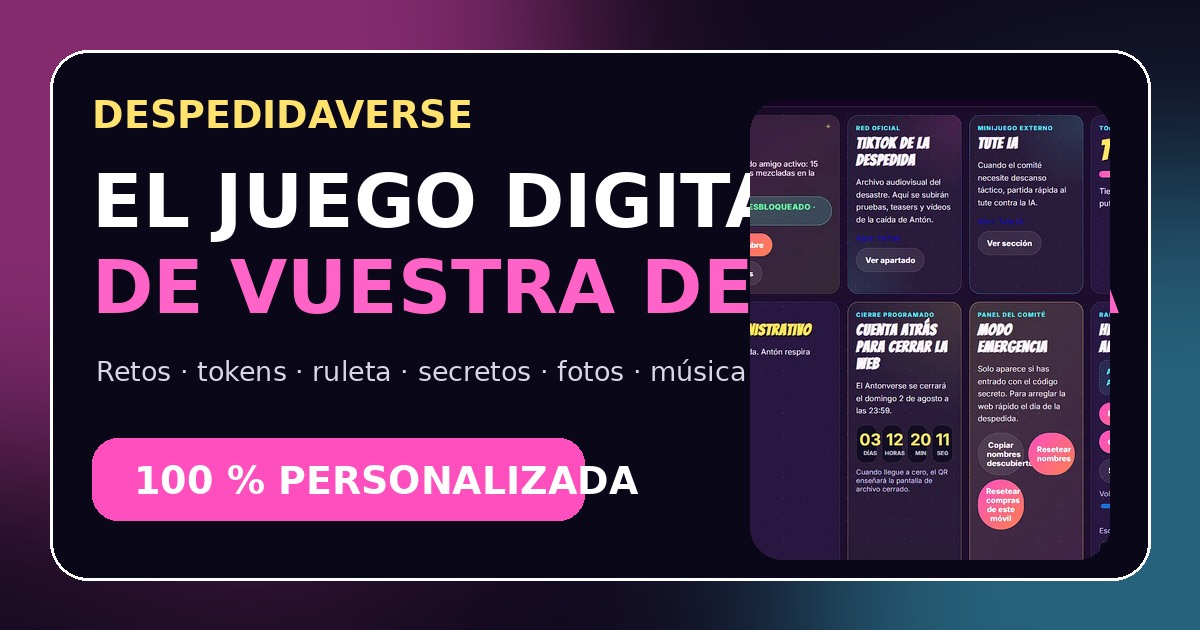
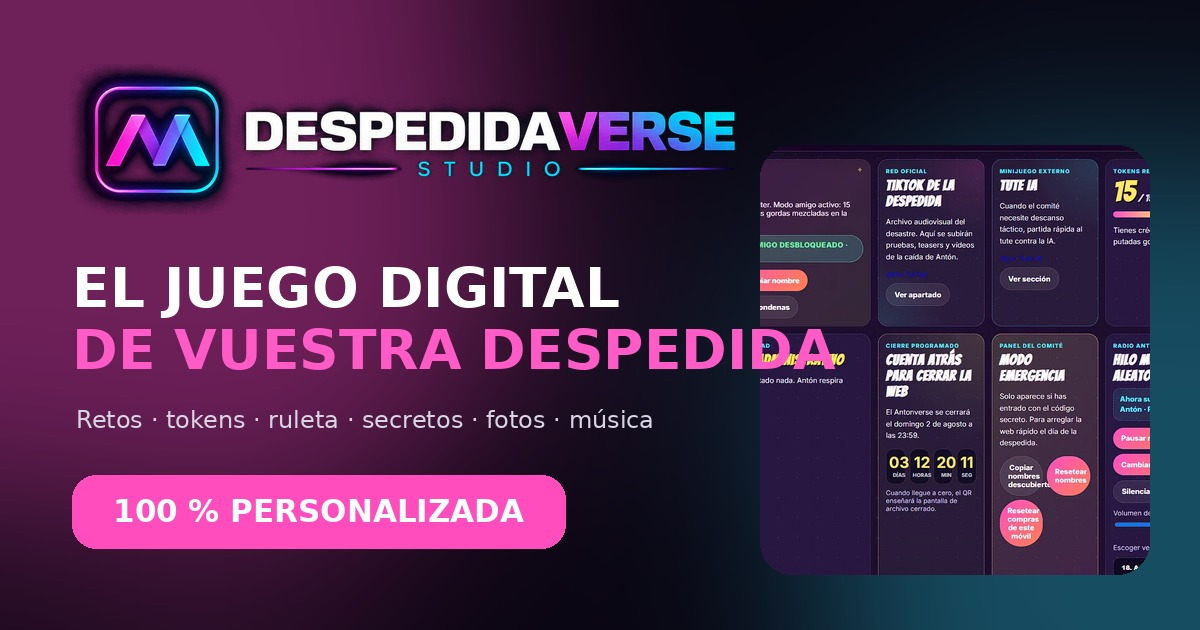
Add files via upload

diff --git a/styles.css b/styles.css
@@ -18,7 +18,7 @@ img{display:block;max-width:100%}
 .ambient{position:fixed;border-radius:50%;filter:blur(120px);pointer-events:none;z-index:-2;opacity:.16}.ambient-a{width:480px;height:480px;background:var(--pink);left:-250px;top:120px}.ambient-b{width:560px;height:560px;background:var(--cyan);right:-360px;top:1000px}
 .topbar{min-height:38px;display:flex;align-items:center;justify-content:center;gap:24px;padding:7px 20px;background:linear-gradient(90deg,#5d1c72,#9a245f,#2d5878);font-size:.78rem;font-weight:850;letter-spacing:.04em}.topbar a{color:var(--yellow)}
 .site-header{position:sticky;top:0;z-index:100;min-height:78px;display:flex;align-items:center;justify-content:space-between;padding:10px max(22px,calc((100vw - 1180px)/2));background:rgba(13,8,24,.72);border-bottom:1px solid transparent;backdrop-filter:blur(18px);transition:.25s}.site-header.scrolled{border-bottom-color:var(--line);background:rgba(13,8,24,.92)}
-.brand img{width:242px;height:auto}.main-nav{display:flex;align-items:center;gap:25px;font-size:.9rem;font-weight:780}.main-nav>a{color:#d8d3e3;transition:.2s}.main-nav>a:hover{color:#fff}.nav-cta{padding:11px 18px;border:1px solid rgba(255,255,255,.2);border-radius:999px;background:rgba(255,255,255,.06)}
+.brand img{width:300px;height:auto;object-fit:contain}.main-nav{display:flex;align-items:center;gap:25px;font-size:.9rem;font-weight:780}.main-nav>a{color:#d8d3e3;transition:.2s}.main-nav>a:hover{color:#fff}.nav-cta{padding:11px 18px;border:1px solid rgba(255,255,255,.2);border-radius:999px;background:rgba(255,255,255,.06)}
 .menu-toggle{display:none;width:46px;height:46px;border:1px solid var(--line);background:rgba(255,255,255,.06);border-radius:14px;padding:12px}.menu-toggle span{display:block;height:2px;background:#fff;margin:5px 0;border-radius:2px}
 .eyebrow{display:flex;align-items:center;gap:10px;margin:0 0 18px;color:var(--cyan);font-size:.78rem;font-weight:950;letter-spacing:.15em;text-transform:uppercase}.eyebrow span{width:33px;height:2px;background:linear-gradient(90deg,var(--pink),var(--cyan))}
 h1,h2,h3,p{overflow-wrap:break-word}h1,h2,h3{margin:0;line-height:.98;letter-spacing:-.045em}h1{font-size:clamp(3.15rem,6.7vw,6.1rem)}h2{font-size:clamp(2.5rem,5vw,4.5rem)}h3{font-size:1.55rem}em{font-style:normal;color:transparent;background:linear-gradient(90deg,var(--pink),var(--purple),var(--cyan));background-clip:text;-webkit-background-clip:text}
@@ -48,7 +48,7 @@ h1,h2,h3,p{overflow-wrap:break-word}h1,h2,h3{margin:0;line-height:.98;letter-spa
 .contact-section{padding-block:130px;background:radial-gradient(circle at 15% 30%,rgba(255,88,196,.13),transparent 34%),#0c0715}.contact-wrap{display:grid;grid-template-columns:.78fr 1.22fr;gap:65px}.contact-copy>p:not(.eyebrow){color:var(--muted)}.contact-points{display:grid;gap:10px;margin:30px 0}.contact-points span{display:flex;align-items:center;gap:11px;color:#ddd8e4}.contact-points b{display:grid;place-items:center;width:29px;height:29px;border-radius:50%;background:rgba(93,231,255,.12);color:var(--cyan)}.direct-contact{padding:18px;border:1px solid var(--line);border-radius:18px;background:rgba(255,255,255,.035)}.direct-contact small,.direct-contact a{display:block}.direct-contact small{color:var(--yellow);font-size:.62rem;font-weight:950}.direct-contact a{margin:6px 0;font-weight:900;overflow-wrap:anywhere}.direct-contact button,.form-tools button{padding:0;border:0;background:transparent;color:var(--cyan);font-weight:900;cursor:pointer}
 .lead-form{padding:28px;border:1px solid var(--line);border-radius:28px;background:rgba(255,255,255,.045);box-shadow:var(--shadow)}.form-head{display:flex;justify-content:space-between;margin-bottom:23px;padding-bottom:16px;border-bottom:1px solid var(--line)}.form-head span{color:var(--pink);font-size:.7rem;font-weight:950}.form-grid{display:grid;grid-template-columns:1fr 1fr;gap:13px}.form-grid label>span{display:block;margin-bottom:7px;color:#b9b2c2;font-size:.76rem}.form-grid .full{grid-column:1/-1}.lead-form textarea{resize:vertical}.consent{display:flex;gap:10px;margin:18px 0;color:#aaa3b4;font-size:.72rem}.consent input{width:auto;margin-top:3px}.form-submit{width:100%}.form-tools{display:flex;align-items:center;justify-content:space-between;margin-top:13px;color:#aaa3b4;font-size:.74rem}
 .final-cta{padding:95px 0;background:linear-gradient(135deg,#ff51bd,#915eff 55%,#36d9ee);text-align:center}.final-cta p{margin:0 0 10px;color:#1b1028;font-size:.75rem;font-weight:1000;letter-spacing:.18em}.final-cta h2{max-width:850px;margin:0 auto 30px;color:#fff;text-shadow:0 4px 20px rgba(0,0,0,.15)}
-.site-footer{padding:65px 0 25px;background:#08050e}.footer-grid{display:grid;grid-template-columns:2fr 1fr 1fr 1fr;gap:40px}.footer-grid>div{display:flex;flex-direction:column;align-items:flex-start;gap:10px}.footer-grid img{width:245px}.footer-grid p,.footer-grid a,.footer-grid span,.footer-grid button{color:#9992a2;font-size:.8rem}.footer-grid strong{margin-bottom:6px}.footer-grid button{padding:0;border:0;background:transparent;cursor:pointer}.footer-bottom{display:flex;justify-content:space-between;margin-top:45px;padding-top:20px;border-top:1px solid var(--line);color:#787180;font-size:.72rem}
+.site-footer{padding:65px 0 25px;background:#08050e}.footer-grid{display:grid;grid-template-columns:2fr 1fr 1fr 1fr;gap:40px}.footer-grid>div{display:flex;flex-direction:column;align-items:flex-start;gap:10px}.footer-grid img{width:320px;max-width:100%;height:auto;object-fit:contain}.footer-grid p,.footer-grid a,.footer-grid span,.footer-grid button{color:#9992a2;font-size:.8rem}.footer-grid strong{margin-bottom:6px}.footer-grid button{padding:0;border:0;background:transparent;cursor:pointer}.footer-bottom{display:flex;justify-content:space-between;margin-top:45px;padding-top:20px;border-top:1px solid var(--line);color:#787180;font-size:.72rem}
 .floating-contact{position:fixed;right:20px;bottom:20px;z-index:80;display:flex;align-items:center;gap:9px;padding:13px 17px;border:1px solid rgba(255,255,255,.22);border-radius:999px;background:linear-gradient(135deg,var(--pink),var(--purple));box-shadow:0 15px 40px rgba(0,0,0,.35);font-size:.78rem}.floating-contact span{color:var(--yellow)}
 dialog{max-width:min(900px,calc(100% - 24px));padding:0;border:1px solid rgba(255,255,255,.18);border-radius:24px;background:#10091b;color:#fff;box-shadow:0 40px 120px rgba(0,0,0,.65)}dialog::backdrop{background:rgba(5,3,10,.84);backdrop-filter:blur(8px)}.media-modal{width:min(760px,calc(100% - 24px))}.media-modal video{width:100%;max-height:80vh;background:#000}.modal-close{position:absolute;right:12px;top:12px;z-index:3;width:42px;height:42px;border:1px solid var(--line);border-radius:50%;background:rgba(10,6,18,.84);font-size:1.5rem;cursor:pointer}.final-reveal-card{padding:20px;text-align:center}.final-reveal-card>p{color:var(--yellow);font-size:.72rem;font-weight:1000;letter-spacing:.17em}.final-reveal-card img{max-height:68vh;margin:auto;border-radius:18px}.final-reveal-card h3{margin-top:17px;font-size:2rem}.final-reveal-card>span{color:var(--muted)}.lightbox img{max-height:88vh;margin:auto}.toast{position:fixed;left:50%;bottom:30px;z-index:999;transform:translate(-50%,30px);padding:12px 18px;border:1px solid var(--line);border-radius:13px;background:#fff;color:#120a1e;font-weight:900;opacity:0;pointer-events:none;transition:.25s}.toast.show{opacity:1;transform:translate(-50%,0)}.noscript{position:fixed;bottom:0;left:0;right:0;z-index:999;padding:12px;background:#ffe36e;color:#160d22;text-align:center;font-weight:900}
 @media(max-width:1050px){
@@ -57,7 +57,7 @@ dialog{max-width:min(900px,calc(100% - 24px));padding:0;border:1px solid rgba(25
 }
 @media(max-width:760px){
   :root{--shell:min(100% - 26px,1180px);--radius:22px}
-  .topbar{justify-content:space-between;font-size:.65rem}.site-header{min-height:68px;padding-inline:14px}.brand img{width:202px}.menu-toggle{display:block}.main-nav{position:absolute;left:13px;right:13px;top:72px;display:none;flex-direction:column;align-items:stretch;padding:14px;border:1px solid var(--line);border-radius:20px;background:rgba(13,8,24,.98);box-shadow:var(--shadow)}.main-nav.open{display:flex}.main-nav>a{padding:10px;font-size:.9rem}.nav-cta{text-align:center}
+  .topbar{justify-content:space-between;font-size:.65rem}.site-header{min-height:68px;padding-inline:14px}.brand img{width:225px}.menu-toggle{display:block}.main-nav{position:absolute;left:13px;right:13px;top:72px;display:none;flex-direction:column;align-items:stretch;padding:14px;border:1px solid var(--line);border-radius:20px;background:rgba(13,8,24,.98);box-shadow:var(--shadow)}.main-nav.open{display:flex}.main-nav>a{padding:10px;font-size:.9rem}.nav-cta{text-align:center}
   h1{font-size:clamp(3rem,15vw,4.8rem)}h2{font-size:clamp(2.4rem,11vw,3.7rem)}.hero{gap:55px;padding-block:65px 85px}.hero-lead{font-size:1rem}.hero-actions .button{width:100%}.trust-pills{display:grid}.device-shell{transform:none;padding:8px;border-radius:25px}.device-shell img{border-radius:18px}.float-left{left:-4px;bottom:40px}.float-right{right:-5px;top:65px}.hero-float{padding:9px 11px}.hero-float strong{font-size:.72rem}.hero-ring{display:none}
   .proof-strip{margin-bottom:70px}.proof-strip div{padding:18px}.demo-section,.features,.case-study,.why-us,.pricing,.process,.faq{padding-block:75px}.demo-console{grid-template-columns:1fr}.demo-sidebar{display:grid;grid-template-columns:1.3fr 1fr 1fr;gap:8px;border-right:0;border-bottom:1px solid var(--line)}.demo-logo{padding:0;border:0}.demo-stat{margin:0;padding:10px}.demo-reset{grid-column:1/-1;margin:0}.demo-panel{min-height:580px;padding:28px 18px;grid-template-columns:1fr}.demo-panel h3{font-size:2.35rem}.wheel-wrap{grid-row:1}.demo-wheel{width:260px}.demo-shop article{grid-template-columns:auto 1fr}.demo-shop article button{grid-column:1/-1}.secret-list span{min-height:90px;font-size:.78rem}.demo-final-panel{align-content:center}
   .feature-grid{grid-template-columns:1fr}.feature-card,.feature-large{min-height:auto}.styles-section{padding-block:80px}.styles-wrap{gap:40px}.style-picker{grid-template-columns:1fr}.style-browser section{min-height:470px;padding:30px}.style-browser h3{font-size:3rem}.case-metrics{grid-template-columns:1fr 1fr}.why-grid{grid-template-columns:1fr}.calc-grid,.calc-extras,.form-grid,.faq-grid{grid-template-columns:1fr}.calc-extras legend,.form-grid .full{grid-column:auto}.calc-result{align-items:stretch;flex-direction:column}.calc-result .button{width:100%}.calculator{padding:18px}.process-list li{grid-template-columns:70px 1fr;gap:12px}.process-list>li>span{font-size:1.8rem}.contact-wrap{gap:40px}.lead-form{padding:18px}.footer-grid{grid-template-columns:1fr 1fr}.footer-grid>div:first-child{grid-column:1/-1}.footer-bottom{flex-direction:column;gap:8px}.floating-contact strong{display:none}.floating-contact{width:52px;height:52px;justify-content:center;padding:0}.media-modal{width:calc(100% - 18px)}
@@ -70,7 +70,42 @@ dialog{max-width:min(900px,calc(100% - 24px));padding:0;border:1px solid rgba(25
 
 /* ===== v4 · Automatización comercial ===== */
 .automation-section{padding-block:110px}.automation-grid{display:grid;grid-template-columns:repeat(3,1fr);gap:14px}.automation-grid article{position:relative;min-height:245px;padding:26px;border:1px solid var(--line);border-radius:24px;background:linear-gradient(145deg,rgba(255,255,255,.055),rgba(255,255,255,.018));overflow:hidden}.automation-grid article>span{position:absolute;right:20px;top:14px;color:rgba(255,255,255,.08);font-size:3rem;font-weight:1000}.automation-grid i{display:grid;place-items:center;width:52px;height:52px;margin-bottom:25px;border-radius:16px;background:rgba(93,231,255,.09);font-style:normal;font-size:1.5rem}.automation-grid h3{margin-bottom:12px}.automation-grid p{margin:0;color:var(--muted);font-size:.88rem}.automation-actions{display:flex;gap:12px;flex-wrap:wrap;margin-top:25px}.contact-shortcuts{display:flex;gap:8px;flex-wrap:wrap;margin-top:10px}.contact-shortcuts a{padding:8px 11px;border:1px solid var(--line);border-radius:999px;color:#cfc9d7;font-size:.72rem;font-weight:850}.payment-button{width:100%;margin-top:8px;border-color:rgba(111,247,176,.35);background:rgba(111,247,176,.08);color:var(--green)}.submit-frame{position:absolute;width:1px;height:1px;border:0;opacity:0;pointer-events:none}.lead-form.is-sending{opacity:.72;pointer-events:none}.lead-form.is-success{border-color:rgba(111,247,176,.45);box-shadow:0 0 45px rgba(111,247,176,.08)}
-.portal-page{min-height:100vh;background:radial-gradient(circle at 15% 20%,rgba(255,88,196,.14),transparent 30%),radial-gradient(circle at 90% 70%,rgba(93,231,255,.11),transparent 34%),var(--bg)}.portal-header{width:min(1000px,calc(100% - 28px));margin:auto;padding:24px 0;display:flex;align-items:center;justify-content:space-between}.portal-header img{width:235px}.portal-header a{padding:10px 14px;border:1px solid var(--line);border-radius:13px;font-size:.8rem}.portal-main{width:min(920px,calc(100% - 28px));margin:35px auto 90px}.portal-hero{text-align:center;margin-bottom:30px}.portal-hero h1{font-size:clamp(2.8rem,8vw,5rem)}.portal-hero p{max-width:650px;margin:18px auto;color:var(--muted)}.portal-card{padding:28px;border:1px solid var(--line);border-radius:28px;background:rgba(255,255,255,.045);box-shadow:var(--shadow)}.portal-form{display:grid;grid-template-columns:1fr 1fr auto;gap:10px}.portal-form label span,.onboarding-form label>span{display:block;margin-bottom:7px;color:#bbb4c4;font-size:.75rem}.portal-form input,.onboarding-form input,.onboarding-form select,.onboarding-form textarea{width:100%;padding:14px;border:1px solid var(--line);border-radius:13px;background:#0b0713;color:#fff;outline:none}.portal-form button{align-self:end}.portal-message{margin-top:14px;color:var(--muted)}.project-status{display:none;margin-top:25px}.project-status.visible{display:block}.status-top{display:flex;align-items:flex-start;justify-content:space-between;gap:15px;padding-bottom:20px;border-bottom:1px solid var(--line)}.status-badge{padding:8px 12px;border-radius:999px;background:rgba(93,231,255,.1);color:var(--cyan);font-size:.72rem;font-weight:950}.status-grid{display:grid;grid-template-columns:repeat(3,1fr);gap:10px;margin:20px 0}.status-grid article{padding:16px;border:1px solid var(--line);border-radius:16px;background:rgba(255,255,255,.025)}.status-grid small,.status-grid strong{display:block}.status-grid small{color:#918a9c;font-size:.65rem}.timeline{display:grid;gap:0;margin:25px 0}.timeline-step{display:grid;grid-template-columns:30px 1fr;gap:12px;min-height:72px}.timeline-step i{width:18px;height:18px;margin-top:3px;border:3px solid #51485f;border-radius:50%;background:#10091c;position:relative}.timeline-step:not(:last-child) i::after{content:"";position:absolute;left:5px;top:16px;width:2px;height:55px;background:#51485f}.timeline-step.done i{border-color:var(--green);background:var(--green)}.timeline-step.active i{border-color:var(--yellow);box-shadow:0 0 0 5px rgba(255,227,110,.1)}.timeline-step strong,.timeline-step span{display:block}.timeline-step span{color:var(--muted);font-size:.8rem}.portal-actions{display:flex;gap:10px;flex-wrap:wrap}.portal-empty{padding:18px;border:1px dashed var(--line);border-radius:16px;color:var(--muted)}
+.portal-page{min-height:100vh;background:radial-gradient(circle at 15% 20%,rgba(255,88,196,.14),transparent 30%),radial-gradient(circle at 90% 70%,rgba(93,231,255,.11),transparent 34%),var(--bg)}.portal-header{width:min(1000px,calc(100% - 28px));margin:auto;padding:24px 0;display:flex;align-items:center;justify-content:space-between}.portal-header img{width:290px;max-width:55vw;height:auto;object-fit:contain}.portal-header a{padding:10px 14px;border:1px solid var(--line);border-radius:13px;font-size:.8rem}.portal-main{width:min(920px,calc(100% - 28px));margin:35px auto 90px}.portal-hero{text-align:center;margin-bottom:30px}.portal-hero h1{font-size:clamp(2.8rem,8vw,5rem)}.portal-hero p{max-width:650px;margin:18px auto;color:var(--muted)}.portal-card{padding:28px;border:1px solid var(--line);border-radius:28px;background:rgba(255,255,255,.045);box-shadow:var(--shadow)}.portal-form{display:grid;grid-template-columns:1fr 1fr auto;gap:10px}.portal-form label span,.onboarding-form label>span{display:block;margin-bottom:7px;color:#bbb4c4;font-size:.75rem}.portal-form input,.onboarding-form input,.onboarding-form select,.onboarding-form textarea{width:100%;padding:14px;border:1px solid var(--line);border-radius:13px;background:#0b0713;color:#fff;outline:none}.portal-form button{align-self:end}.portal-message{margin-top:14px;color:var(--muted)}.project-status{display:none;margin-top:25px}.project-status.visible{display:block}.status-top{display:flex;align-items:flex-start;justify-content:space-between;gap:15px;padding-bottom:20px;border-bottom:1px solid var(--line)}.status-badge{padding:8px 12px;border-radius:999px;background:rgba(93,231,255,.1);color:var(--cyan);font-size:.72rem;font-weight:950}.status-grid{display:grid;grid-template-columns:repeat(3,1fr);gap:10px;margin:20px 0}.status-grid article{padding:16px;border:1px solid var(--line);border-radius:16px;background:rgba(255,255,255,.025)}.status-grid small,.status-grid strong{display:block}.status-grid small{color:#918a9c;font-size:.65rem}.timeline{display:grid;gap:0;margin:25px 0}.timeline-step{display:grid;grid-template-columns:30px 1fr;gap:12px;min-height:72px}.timeline-step i{width:18px;height:18px;margin-top:3px;border:3px solid #51485f;border-radius:50%;background:#10091c;position:relative}.timeline-step:not(:last-child) i::after{content:"";position:absolute;left:5px;top:16px;width:2px;height:55px;background:#51485f}.timeline-step.done i{border-color:var(--green);background:var(--green)}.timeline-step.active i{border-color:var(--yellow);box-shadow:0 0 0 5px rgba(255,227,110,.1)}.timeline-step strong,.timeline-step span{display:block}.timeline-step span{color:var(--muted);font-size:.8rem}.portal-actions{display:flex;gap:10px;flex-wrap:wrap}.portal-empty{padding:18px;border:1px dashed var(--line);border-radius:16px;color:var(--muted)}
 .onboarding-form{display:grid;gap:20px}.onboarding-grid{display:grid;grid-template-columns:1fr 1fr;gap:13px}.onboarding-form .full{grid-column:1/-1}.onboarding-form textarea{resize:vertical}.form-section{padding:20px;border:1px solid var(--line);border-radius:20px;background:rgba(255,255,255,.025)}.form-section h2{font-size:1.5rem;margin-bottom:16px}.form-help{color:var(--muted);font-size:.78rem}.success-page{display:grid;place-items:center;min-height:100vh;padding:20px}.success-card{max-width:690px;padding:45px;border:1px solid rgba(111,247,176,.35);border-radius:30px;background:rgba(255,255,255,.045);text-align:center;box-shadow:var(--shadow)}.success-card>span{font-size:4rem}.success-card h1{font-size:clamp(2.8rem,8vw,5rem)}.success-card p{color:var(--muted)}.success-actions{display:flex;justify-content:center;gap:10px;flex-wrap:wrap;margin-top:25px}
 @media(max-width:900px){.automation-grid{grid-template-columns:1fr 1fr}.portal-form{grid-template-columns:1fr 1fr}.portal-form button{grid-column:1/-1}.status-grid{grid-template-columns:1fr 1fr}}
-@media(max-width:650px){.automation-grid{grid-template-columns:1fr}.automation-section{padding-block:75px}.portal-header img{width:195px}.portal-form,.onboarding-grid{grid-template-columns:1fr}.onboarding-form .full{grid-column:auto}.status-grid{grid-template-columns:1fr}.status-top{flex-direction:column}.portal-actions .button{width:100%}.success-card{padding:28px 18px}}
+@media(max-width:650px){.automation-grid{grid-template-columns:1fr}.automation-section{padding-block:75px}.portal-header img{width:220px;max-width:58vw}.portal-form,.onboarding-grid{grid-template-columns:1fr}.onboarding-form .full{grid-column:auto}.status-grid{grid-template-columns:1fr}.status-top{flex-direction:column}.portal-actions .button{width:100%}.success-card{padding:28px 18px}}
+
+
+/* ===== DespedidaVerse v5: identidad visual final ===== */
+.brand,
+.portal-header > a:first-child {
+  display: inline-flex;
+  align-items: center;
+  min-width: 0;
+}
+
+.brand img,
+.portal-header img,
+.footer-grid img {
+  filter: drop-shadow(0 8px 22px rgba(116, 91, 255, .16));
+}
+
+.site-header .brand img {
+  max-height: 64px;
+}
+
+.portal-header > a:first-child {
+  padding: 0;
+  border: 0;
+  background: transparent;
+}
+
+@media (max-width: 760px) {
+  .site-header .brand img {
+    max-height: 54px;
+  }
+
+  .footer-grid img {
+    width: 280px;
+  }
+}

diff --git a/setup.html b/setup.html
@@ -1,1 +1,1 @@
-<!doctype html><html lang="es"><head><meta charset="utf-8"><meta name="viewport" content="width=device-width,initial-scale=1,viewport-fit=cover"><meta name="theme-color" content="#10091f"><meta name="color-scheme" content="dark"><link rel="icon" href="assets/favicon.svg" type="image/svg+xml"><link rel="stylesheet" href="styles.css"><script defer src="config.js"></script><script defer src="setup.js"></script><title>Configurador técnico · DespedidaVerse</title></head><body class="portal-page"><header class="portal-header"><a href="index.html"><img src="assets/logo.svg" alt="DespedidaVerse Studio"></a><a href="index.html">← Volver a la web</a></header><main class="portal-main"><section class="portal-hero"><p class="eyebrow" style="justify-content:center"><span></span> Configuración sin tocar código</p><h1>Activador de automatización</h1><p>Introduce las direcciones cuando hayas creado los servicios. La herramienta descargará un archivo <b>config.js</b> listo para sustituir en la web.</p></section><form class="portal-card onboarding-form" id="setup-form"><section class="form-section"><h2>Datos básicos</h2><div class="onboarding-grid"><label><span>Correo</span><input name="email" value="fdez.edu00@gmail.com"></label><label><span>URL pública de la web</span><input name="siteUrl" value="https://elptowalter.github.io/despedidaverse-studio/"></label><label class="full"><span>URL del Google Apps Script desplegado</span><input name="appsScriptUrl" placeholder="https://script.google.com/macros/s/.../exec"></label><label class="full"><span>Formulario Tally opcional</span><input name="tallyFormUrl" placeholder="https://tally.so/r/..."></label><label><span>WhatsApp opcional</span><input name="whatsapp" placeholder="34600111222"></label></div></section><section class="form-section"><h2>Enlaces de pago opcionales</h2><div class="onboarding-grid"><label><span>Esencial</span><input name="paymentEssential" placeholder="https://buy.stripe.com/..."></label><label><span>Universo</span><input name="paymentUniverse" placeholder="https://buy.stripe.com/..."></label><label><span>Live</span><input name="paymentLive" placeholder="https://buy.stripe.com/..."></label></div></section><button class="button button-primary" type="submit">Descargar config.js</button><p class="form-help">Este configurador no envía ni almacena las claves. Todo se genera en tu navegador.</p></form></main></body></html>
+<!doctype html><html lang="es"><head><meta charset="utf-8"><meta name="viewport" content="width=device-width,initial-scale=1,viewport-fit=cover"><meta name="theme-color" content="#10091f"><meta name="color-scheme" content="dark"><link rel="icon" href="assets/favicon.png" type="image/svg+xml"><link rel="stylesheet" href="styles.css"><script defer src="config.js"></script><script defer src="setup.js"></script><title>Configurador técnico · DespedidaVerse</title></head><body class="portal-page"><header class="portal-header"><a href="index.html"><img src="assets/logo-final.webp" alt="DespedidaVerse Studio"></a><a href="index.html">← Volver a la web</a></header><main class="portal-main"><section class="portal-hero"><p class="eyebrow" style="justify-content:center"><span></span> Configuración sin tocar código</p><h1>Activador de automatización</h1><p>Introduce las direcciones cuando hayas creado los servicios. La herramienta descargará un archivo <b>config.js</b> listo para sustituir en la web.</p></section><form class="portal-card onboarding-form" id="setup-form"><section class="form-section"><h2>Datos básicos</h2><div class="onboarding-grid"><label><span>Correo</span><input name="email" value="fdez.edu00@gmail.com"></label><label><span>URL pública de la web</span><input name="siteUrl" value="https://elptowalter.github.io/despedidaverse-studio/"></label><label class="full"><span>URL del Google Apps Script desplegado</span><input name="appsScriptUrl" placeholder="https://script.google.com/macros/s/.../exec"></label><label class="full"><span>Formulario Tally opcional</span><input name="tallyFormUrl" placeholder="https://tally.so/r/..."></label><label><span>WhatsApp opcional</span><input name="whatsapp" placeholder="34600111222"></label></div></section><section class="form-section"><h2>Enlaces de pago opcionales</h2><div class="onboarding-grid"><label><span>Esencial</span><input name="paymentEssential" placeholder="https://buy.stripe.com/..."></label><label><span>Universo</span><input name="paymentUniverse" placeholder="https://buy.stripe.com/..."></label><label><span>Live</span><input name="paymentLive" placeholder="https://buy.stripe.com/..."></label></div></section><button class="button button-primary" type="submit">Descargar config.js</button><p class="form-help">Este configurador no envía ni almacena las claves. Todo se genera en tu navegador.</p></form></main></body></html>

diff --git a/gracias.html b/gracias.html
@@ -1,1 +1,1 @@
-<!doctype html><html lang="es"><head><meta charset="utf-8"><meta name="viewport" content="width=device-width,initial-scale=1,viewport-fit=cover"><meta name="theme-color" content="#10091f"><meta name="color-scheme" content="dark"><link rel="icon" href="assets/favicon.svg" type="image/svg+xml"><link rel="stylesheet" href="styles.css"><script defer src="config.js"></script><title>Solicitud recibida · DespedidaVerse</title></head><body class="portal-page success-page"><main class="success-card"><span>✓</span><p class="eyebrow" style="justify-content:center"><span></span> Registro completado</p><h1>Ya está en marcha</h1><p id="thanks-copy">Hemos recibido la información. Cuando la automatización esté activa, recibirás por correo un identificador y un código privado para seguir el proyecto.</p><div class="success-actions"><a class="button button-primary" href="cliente.html">Área de cliente</a><a class="button button-secondary" href="index.html">Volver a la web</a></div></main><script>if(new URLSearchParams(location.search).get('tipo')==='material'){document.querySelector('#thanks-copy').textContent='El material se ha enviado para incorporarlo al proyecto. Te avisaremos si falta algo o cuando la vista previa esté disponible.'}</script></body></html>
+<!doctype html><html lang="es"><head><meta charset="utf-8"><meta name="viewport" content="width=device-width,initial-scale=1,viewport-fit=cover"><meta name="theme-color" content="#10091f"><meta name="color-scheme" content="dark"><link rel="icon" href="assets/favicon.png" type="image/svg+xml"><link rel="stylesheet" href="styles.css"><script defer src="config.js"></script><title>Solicitud recibida · DespedidaVerse</title></head><body class="portal-page success-page"><main class="success-card"><span>✓</span><p class="eyebrow" style="justify-content:center"><span></span> Registro completado</p><h1>Ya está en marcha</h1><p id="thanks-copy">Hemos recibido la información. Cuando la automatización esté activa, recibirás por correo un identificador y un código privado para seguir el proyecto.</p><div class="success-actions"><a class="button button-primary" href="cliente.html">Área de cliente</a><a class="button button-secondary" href="index.html">Volver a la web</a></div></main><script>if(new URLSearchParams(location.search).get('tipo')==='material'){document.querySelector('#thanks-copy').textContent='El material se ha enviado para incorporarlo al proyecto. Te avisaremos si falta algo o cuando la vista previa esté disponible.'}</script></body></html>

diff --git a/index.html b/index.html
@@ -13,7 +13,7 @@
   <meta property="og:image" content="assets/social-preview.jpg">
   <meta name="twitter:card" content="summary_large_image">
   <link rel="canonical" href="https://elptowalter.github.io/despedidaverse-studio/">
-  <link rel="icon" href="assets/favicon.svg" type="image/svg+xml">
+  <link rel="icon" href="assets/favicon.png" type="image/svg+xml">
   <link rel="manifest" href="manifest.webmanifest">
   <link rel="preload" href="assets/antonverse-dashboard.webp" as="image" type="image/webp">
   <link rel="stylesheet" href="styles.css">
@@ -45,7 +45,7 @@
 
   <header class="site-header" id="top">
     <a class="brand" href="#top" aria-label="DespedidaVerse Studio, inicio">
-      <img src="assets/logo.svg" alt="" width="260" height="75">
+      <img src="assets/logo-final.webp" alt="" width="300" height="75">
     </a>
     <button class="menu-toggle" type="button" aria-expanded="false" aria-controls="main-nav">
       <span></span><span></span><span></span><i class="sr-only">Abrir menú</i>
@@ -450,7 +450,7 @@
 
   <footer class="site-footer">
     <div class="shell footer-grid">
-      <div><img src="assets/logo.svg" alt="DespedidaVerse Studio" width="280" height="82"><p>Experiencias web personalizadas para despedidas, cumpleaños y eventos privados.</p></div>
+      <div><img src="assets/logo-final.webp" alt="DespedidaVerse Studio" width="320" height="80"><p>Experiencias web personalizadas para despedidas, cumpleaños y eventos privados.</p></div>
       <div><strong>Explorar</strong><a href="#demo">Demo</a><a href="#incluye">Funciones</a><a href="#precios">Precios</a><a href="#contacto">Contacto</a></div>
       <div><strong>Información</strong><a href="cliente.html">Área de cliente</a><a href="onboarding.html">Entrega de material</a><a href="privacidad.html">Privacidad</a><a href="condiciones.html">Condiciones</a><button type="button" id="install-app" hidden>Instalar web</button></div>
       <div><strong>Contacto</strong><a href="mailto:fdez.edu00@gmail.com">Correo</a><span>España · Servicio online</span></div>

diff --git a/onboarding.html b/onboarding.html
@@ -1,4 +1,4 @@
-<!doctype html><html lang="es"><head><meta charset="utf-8"><meta name="viewport" content="width=device-width,initial-scale=1,viewport-fit=cover"><meta name="theme-color" content="#10091f"><meta name="color-scheme" content="dark"><link rel="icon" href="assets/favicon.svg" type="image/svg+xml"><link rel="stylesheet" href="styles.css"><script defer src="config.js"></script><script defer src="onboarding.js"></script><title>Entrega de material · DespedidaVerse</title></head><body class="portal-page"><header class="portal-header"><a href="index.html"><img src="assets/logo.svg" alt="DespedidaVerse Studio"></a><a href="index.html">← Volver a la web</a></header>
+<!doctype html><html lang="es"><head><meta charset="utf-8"><meta name="viewport" content="width=device-width,initial-scale=1,viewport-fit=cover"><meta name="theme-color" content="#10091f"><meta name="color-scheme" content="dark"><link rel="icon" href="assets/favicon.png" type="image/svg+xml"><link rel="stylesheet" href="styles.css"><script defer src="config.js"></script><script defer src="onboarding.js"></script><title>Entrega de material · DespedidaVerse</title></head><body class="portal-page"><header class="portal-header"><a href="index.html"><img src="assets/logo-final.webp" alt="DespedidaVerse Studio"></a><a href="index.html">← Volver a la web</a></header>
 <main class="portal-main">
   <section class="portal-hero"><p class="eyebrow" style="justify-content:center"><span></span> Brief estructurado</p><h1>Entrega de material</h1><p>Rellena todo lo que ya tengáis. Se puede completar después; lo importante es que la información llegue ordenada y sin perderse entre mensajes.</p></section>
   <form class="portal-card onboarding-form" id="onboarding-form" method="post" target="onboarding-frame">

diff --git a/cliente.html b/cliente.html
@@ -1,4 +1,4 @@
-<!doctype html><html lang="es"><head><meta charset="utf-8"><meta name="viewport" content="width=device-width,initial-scale=1,viewport-fit=cover"><meta name="theme-color" content="#10091f"><meta name="color-scheme" content="dark"><link rel="icon" href="assets/favicon.svg" type="image/svg+xml"><link rel="stylesheet" href="styles.css"><script defer src="config.js"></script><script defer src="cliente.js"></script><title>Área de cliente · DespedidaVerse</title></head><body class="portal-page"><header class="portal-header"><a href="index.html"><img src="assets/logo.svg" alt="DespedidaVerse Studio"></a><a href="index.html">← Volver a la web</a></header>
+<!doctype html><html lang="es"><head><meta charset="utf-8"><meta name="viewport" content="width=device-width,initial-scale=1,viewport-fit=cover"><meta name="theme-color" content="#10091f"><meta name="color-scheme" content="dark"><link rel="icon" href="assets/favicon.png" type="image/svg+xml"><link rel="stylesheet" href="styles.css"><script defer src="config.js"></script><script defer src="cliente.js"></script><title>Área de cliente · DespedidaVerse</title></head><body class="portal-page"><header class="portal-header"><a href="index.html"><img src="assets/logo-final.webp" alt="DespedidaVerse Studio"></a><a href="index.html">← Volver a la web</a></header>
 <main class="portal-main">
   <section class="portal-hero"><p class="eyebrow" style="justify-content:center"><span></span> Seguimiento privado</p><h1>Área de cliente</h1><p>Introduce el identificador y el código de acceso incluidos en el correo de confirmación para consultar el estado del proyecto.</p></section>
   <section class="portal-card">

diff --git a/sw.js b/sw.js
@@ -1,1 +1,1 @@
-const CACHE='despedidaverse-v4';const ASSETS=['./','./index.html','./styles.css','./script.js','./config.js','./cliente.html','./cliente.js','./onboarding.html','./onboarding.js','./gracias.html','./offline.html','./assets/logo.svg','./assets/favicon.svg','./assets/antonverse-dashboard.webp'];self.addEventListener('install',e=>e.waitUntil(caches.open(CACHE).then(c=>c.addAll(ASSETS))));self.addEventListener('activate',e=>e.waitUntil(caches.keys().then(keys=>Promise.all(keys.filter(k=>k!==CACHE).map(k=>caches.delete(k))))));self.addEventListener('fetch',e=>{if(e.request.method!=='GET')return;e.respondWith(fetch(e.request).then(r=>{const copy=r.clone();caches.open(CACHE).then(c=>c.put(e.request,copy));return r}).catch(()=>caches.match(e.request).then(r=>r||caches.match('./offline.html'))))});
+const CACHE='despedidaverse-v5-logo';const ASSETS=['./','./index.html','./styles.css','./script.js','./config.js','./cliente.html','./cliente.js','./onboarding.html','./onboarding.js','./gracias.html','./offline.html','./assets/logo-final.webp','./assets/favicon.png','./assets/app-icon-192.png','./assets/app-icon-512.png','./assets/antonverse-dashboard.webp'];self.addEventListener('install',e=>e.waitUntil(caches.open(CACHE).then(c=>c.addAll(ASSETS))));self.addEventListener('activate',e=>e.waitUntil(caches.keys().then(keys=>Promise.all(keys.filter(k=>k!==CACHE).map(k=>caches.delete(k))))));self.addEventListener('fetch',e=>{if(e.request.method!=='GET')return;e.respondWith(fetch(e.request).then(r=>{const copy=r.clone();caches.open(CACHE).then(c=>c.put(e.request,copy));return r}).catch(()=>caches.match(e.request).then(r=>r||caches.match('./offline.html'))))});

diff --git a/README.md b/README.md
@@ -19,3 +19,11 @@ No publiques el ZIP privado de automatización, secretos de Stripe, IDs internos
 
 ## Modo de emergencia
 Si `appsScriptUrl` está vacío, los formularios preparan un correo a `fdez.edu00@gmail.com`.
+
+
+## Identidad visual v5
+- Nuevo logotipo profesional integrado en cabecera, pie y área privada.
+- Nuevo icono de navegador y PWA.
+- Vista previa social actualizada.
+- El archivo principal utilizado por la web es `assets/logo-final.webp`.
+- También se incluye `assets/logo-final.png` para otros usos.
